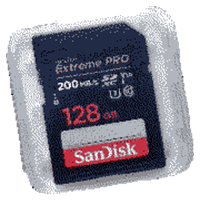
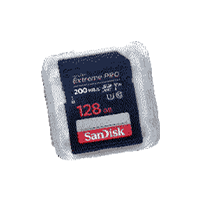
Project 2 Time Capsule Revision 22

diff --git a/project2-time-capsule/page1/main.css b/project2-time-capsule/page1/main.css
@@ -5,8 +5,8 @@ body, html {
 
 .center-line {
     border: none;
-    border-top: 1.5px solid blue;
-    width: 8800px; 
+    border-top: 1.6px solid blue;
+    width: 9200px; 
     position: absolute; 
     top: 50%; 
     transform: translateY(-50%);
@@ -15,7 +15,7 @@ body, html {
 .text-container {
     position: absolute;
     top: 50%;
-    left: 280px; 
+    left: 270px; 
     transform: translate(-50%, -50%);
     text-align: left;
     z-index: 1; 
@@ -25,41 +25,40 @@ h1 {
     font-size: 16pt;
     font-weight: 400;
     font-style: normal;
+    line-height: 2;    
 }
 
 p {
     font-size: 10pt;
     font-weight: 400;
     font-style: normal;
+    line-height: 1.5;    
 }
 
 .image-container {
     text-align: center;
     position: absolute;
-    width: 8300px;
+    width: 8500px;
     top: 50%;
     left: 720px;
     transform: translateY(-50%);
 }
 
 .image-container img {
-    filter: grayscale(100%); 
+    filter: grayscale(100%) drop-shadow(2px 2px 3px #c9c9c9); 
     transition: filter 0.3s ease; 
 }
 
 .image-container img:hover {
     filter: grayscale(0%);
+    filter: drop-shadow(2px 2px 2px #c9c9c9);
 }
 
 .image-wrapper {
     position: relative;
     display: inline-block;
     vertical-align: middle;
-    margin-right: 380px;
-}
-
-.image-wrapper img {
-    vertical-align: middle;
+    margin-right: 390px;
 }
 
 .image-text1 {
@@ -172,73 +171,21 @@ p {
     cursor: url('assets/ear.png'), auto;
 } */
 
-.sdcard {
-    width: 100%; 
-    height: auto;
-}
-
-.cassette {
-    width: 100%; 
-    height: auto;
-}
-
-.cd-player {
-    width: 100%; 
-    height: auto;
-}
-
-.iriver-mp3 {
-    width: 100%; 
-    height: auto;
-}
-
-.mickey-mp3 {
-    width: 100%; 
-    height: auto;
-}
-
-.iphone3gs {
-    width: 100%; 
-    height: auto;
-}
-
-.galaxy-m {
-    width: 100%; 
-    height: auto;
-}
-
-.lg-slider {
-    width: 100%; 
-    height: auto;
-}
-
-.ipod-nano {
-    width: 100%; 
-    height: auto;
-}
-
-.ipod-touch {
-    width: 100%; 
-    height: auto;
-}
-
-.iphone6s {
-    width: 100%; 
-    height: auto;
-}
-
-.iphone8plus {
-    width: 100%; 
-    height: auto;
-}
-
-.iphonexsmax {
-    width: 100%; 
-    height: auto;
-}
-
+.sdcard,
+.cassette,
+.cd-player,
+.iriver-mp3,
+.mickey-mp3,
+.iphone3gs,
+.galaxy-m,
+.lg-slider,
+.ipod-nano,
+.ipod-touch,
+.iphone6s,
+.iphone8plus,
+.iphonexsmax,
 .iphone13promax {
-    width: 100%; 
+    width: 100%;
     height: auto;
 }
 
@@ -251,6 +198,19 @@ p {
 @media only screen and (max-width: 700px) {
     body {
         min-height: 4800px; 
+    }
+
+    h1 {
+        font-size: 14pt;
+        font-weight: 400;
+        font-style: normal;
+        line-height: 1.8;    
+    }
+    
+    p {
+        font-size: 8pt;
+        font-weight: 400;
+        font-style: normal;
     }
 
     .center-line {
@@ -308,7 +268,7 @@ p {
     .story13,
     .story14 {
         text-align: center;
-        width: 300px;
+        width: 350px;
     }
 
     .image-text1 {
@@ -317,7 +277,7 @@ p {
         font-style: normal;
         text-align: center;
         position: absolute;
-        bottom: 300px; 
+        bottom: 330px; 
         left: 50%;
         transform: translateX(-50%);
         opacity: 0;
@@ -330,7 +290,7 @@ p {
         font-style: normal;
         text-align: center;
         position: absolute;
-        bottom: 270px;
+        bottom: 300px;
         left: 50%;
         transform: translateX(-50%);
         opacity: 0;
@@ -343,7 +303,7 @@ p {
         font-style: normal;
         text-align: center;
         position: absolute;
-        bottom: 240px;
+        bottom: 270px;
         left: 50%;
         transform: translateX(-50%);
         opacity: 0;
@@ -370,34 +330,26 @@ p {
         text-align: left;
         line-height: 1.4;
         position: absolute;
-        bottom: -300px;
+        bottom: -220px;
         left: 50%;
         transform: translateX(-50%);
         opacity: 0;
         z-index: 1;
     }
 
-    .sdcard {
-        width: 70%;
-        height: auto;
-    }
-
+    .sdcard,
     .cassette,
     .cd-player,
     .iriver-mp3,
     .mickey-mp3,
-    .iphone3gs {
-        width: 100%;
-        height: auto;
-    }
-
+    .iphone3gs,
     .ipod-nano,
     .ipod-touch,
     .iphone6s,
     .iphone8plus,
     .iphonexsmax,
     .iphone13promax {
-        width: 120%;
+        width: 100%;
         height: auto;
     }
 }

diff --git a/project2-time-capsule/index.html b/project2-time-capsule/index.html
@@ -5,7 +5,7 @@
     <meta name="viewport" content="width=device-width, initial-scale=1.0">
     <link rel="stylesheet" type="text/css" href="main.css">
     <link rel="icon" href="assets/sdcard.png" type="time favicon">
-    <title>Time Capsule</title>
+    <title>Kelly's Time Capsule</title>
 </head>
     <div class="image-container">
         <a href="page1/index.html">
@@ -13,12 +13,5 @@
             <p class="name">Kelly's Time Capsule</p>
         </a>
     </div>
-
-
-<!--     
-    Use HTML to create a simple digital time capsule. 
-    Collect at least ten artifacts, including images, video, text, audio, and even objects to be included in your capsule. 
-    Build your capsule to last! Consider technological, environmental, and social changes and how they might impact how people will access your site in the future.
- -->
 </body>
 </html>

diff --git a/project2-time-capsule/page1/index.html b/project2-time-capsule/page1/index.html
@@ -5,7 +5,7 @@
     <meta name="viewport" content="width=device-width, initial-scale=1.0">
     <link rel="stylesheet" type="text/css" href="main.css">
     <link rel="icon" href="assets/sdcard.png" type="time favicon">
-    <title>Time Capsule</title>
+    <title>Slide to unlock</title>
 </head>
     <hr class="center-line">
     <div class="vertical-line"></div>

diff --git a/project2-time-capsule/main.css b/project2-time-capsule/main.css
@@ -1,6 +1,6 @@
 body, html {
     font-family: monospace;
-    cursor: url('assets/pointing-finger.png'), auto;
+    cursor: auto;
 }
 
 .image-container {
@@ -12,7 +12,7 @@ body, html {
 }
 
 .folder {
-    height: 40px;
+    height: 45px;
     display: block; 
     margin: 0 auto;
 }
